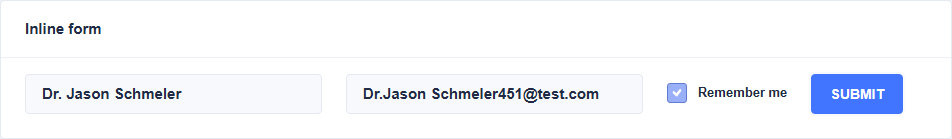
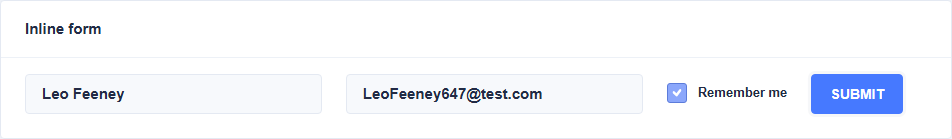
"842"

Changed region(s): [[0.3655, 0.6331, 0.6397, 0.7482], [0.0305, 0.6331, 0.2132, 0.7194]]

diff --git a/playwright.config.ts b/playwright.config.ts
@@ -1,10 +1,10 @@
 import { defineConfig, devices } from '@playwright/test';
 import type { TestOptions } from './test-options';
 
- require('dotenv').config();
+require('dotenv').config();
 
 export default defineConfig<TestOptions>({
-  timeout: 40000,
+ timeout: 40000,
   globalTimeout: 60000,
 expect:{
 timeout:2000
@@ -13,13 +13,13 @@ timeout:2000
   reporter: 'html',
   use: {
    globalsQaURL:'https://www.globalsqa.com/demo-site/draganddrop/',
-  baseURL:'http://localhost:4200/',
-  //  baseURL: process.env.DEV =='1'? 'http://localhost:4201/'
-  //   : process.env.STAGING=='1'?'http://localhost:4202/'
-  //   : 'http://localhost:4200/',
+   baseURL:'http://localhost:4200/',
+// baseURL: process.env.DEV =='1'? 'http://localhost:4201/'
+//   : process.env.STAGING=='1'?'http://localhost:4202/'
+//   : 'http://localhost:4200/',
 
     trace: 'on-first-retry',
-    actionTimeout:20000,
+   // actionTimeout:20000,
     navigationTimeout:5000,
     extraHTTPHeaders:{
        'Authorization': `Token ${process.env.ACCESS_TOKEN}`
@@ -43,31 +43,55 @@ timeout:2000
     // },
 
     { name:'setup',testMatch: 'auth.setup.ts'},
-    
+
     {
-      name: 'chromium',
-      use: { storageState: '.auth/user.json' },
+      name:'articleSetup',
+      testMatch:"newArticle.setup.ts",
+      dependencies:['setup'],
+      teardown: 'articleCleanUp'
+    },
+
+    {
+      name:'articleCleanUp',
+      testMatch:'articleCleanUp.setup.ts'
+    },
+
+      {
+      name: 'regression',
+      use: { ...devices['Desktop Chrome'],storageState: '.auth/user.json' },
       dependencies:['setup'],
     },
 
-    {
-      name: 'firefox',
-      use: { browserName:'firefox', storageState: '.auth/user.json' , 
-      video:{
-      mode:'on',
-      size: {width:1920, height:1080}
-    }},
-      dependencies:['setup']
+        {
+      name: 'likeCounter',
+      testMatch:'likesCounter.spec.ts',
+      use: { ...devices['Desktop Chrome'],storageState: '.auth/user.json' },
+      dependencies:['articleSetup'],
+    },
+      {
+      name: 'chromium',
+      use: { ...devices['Desktop Chrome'],storageState: '.auth/user.json' },
+      dependencies:['setup'],
     },
 
-    {
-      name: 'pageObjectFullScreen',
-      testMatch:'usePageObjects.spec.ts',
-      use:{
-        viewport:{width:1920, height:1080}
-      }
+    // {
+    //   name: 'firefox',
+    //   use: { browserName:'firefox', storageState: '.auth/user.json' , 
+    //   video:{
+    //   mode:'on',
+    //   size: {width:1920, height:1080}
+    // }},
+    //   dependencies:['setup']
+    // },
 
-    }
+    // {
+    //   name: 'pageObjectFullScreen',
+    //   testMatch:'usePageObjects.spec.ts',
+    //   use:{
+    //     viewport:{width:1920, height:1080}
+    //   }
+
+    // }
   ],
 
 });

diff --git a/tests/usePageObjects.spec.ts b/tests/usePageObjects.spec.ts
@@ -43,14 +43,14 @@ test('parametrized methods',async({page})=>{
 
     await pm.navigateTo().formLayoutsPage()
     await pm.onFormLayoutsPage().submitUsingTheGridFormWithCredentialsAndSelectOption(process.env.USERNAME,process.env.PASSWORD,'Option 1')
-    await page.screenshot({path: 'screenshots/formsLayoutsPage.png'})
-    const buffer=await page.screenshot()
-    console.log(buffer.toString('base64'))
+    // await page.screenshot({path: 'screenshots/formsLayoutsPage.png'})
+    // const buffer=await page.screenshot()
+    // console.log(buffer.toString('base64'))
     await pm.onFormLayoutsPage().submitInlineFormWithNameEmailAndCheckbox(randomFullName,randomEmail,true)
-    await page.locator('nb-card',{hasText:"Inline form"}).screenshot({path: 'screenshots/inlineForm.png'})
-    await pm.navigateTo().datepickerPage()
-    await pm.onDatePickerPage().selectCommonDatePickerDateFromToday(10)
-    await pm.onDatePickerPage().selectDatePickerWithRangeFromtoday(6,15)
+    // await page.locator('nb-card',{hasText:"Inline form"}).screenshot({path: 'screenshots/inlineForm.png'})
+    // await pm.navigateTo().datepickerPage()
+    // await pm.onDatePickerPage().selectCommonDatePickerDateFromToday(10)
+    // await pm.onDatePickerPage().selectDatePickerWithRangeFromtoday(6,15)
 })
 
 

diff --git a/tests/workingWithAPI.spec.ts b/tests/workingWithAPI.spec.ts
@@ -1,6 +1,5 @@
-import {test,expect} from "@playwright/test";
+import {test,expect, request} from "@playwright/test";
 import tags from '../test-data/tags.json'
-import { request } from "http";
 
 test.beforeEach(async({page})=>
 {
@@ -11,7 +10,7 @@ await route.fulfill({
 })
     })
 
-    await page.goto('https://conduit.bondaracademy.com/',{waitUntil:'networkidle'})
+    await page.goto('https://conduit.bondaracademy.com/')
 })
 
 test('has title',async({page})=>{
@@ -39,8 +38,8 @@ test('delete article',async({page, request})=>{
           "article":{"title":"Title Nate1","description":"Description Nate1","body":"Body Nate 1","tagList":[]}
         }
     })
-    await expect(articleResponse.status()).toEqual(201)
 
+    await expect(articleResponse.status()).toEqual(201)
     await page.getByText('Global Feed').click()
     await page.getByText('Title Nate1').click()
     await page.getByRole('button',{name: "Delete Article"}).first().click()

diff --git a/test-options.ts b/test-options.ts
@@ -1,9 +1,25 @@
 import {test as base} from '@playwright/test'
+import { PageManager } from "../Playwright-WebAutomation1/page-objects/pageManager";
 
 export type TestOptions={
     globalsQaURL: string 
+    formLayoutsPage: string
+    pageManager: PageManager
 }
 
 export const test=base.extend<TestOptions>({
-    globalsQaURL: ['',{option: true}] 
+    globalsQaURL: ['',{option: true}],
+    formLayoutsPage: //[
+        async({page}, use)=>{
+        await page.goto('/')
+        await page.getByText('Forms').click()
+        await page.getByText('Form Layouts').click()
+        await use('')
+        console.log('Tear down')
+    }, //{auto:true}],
+
+    pageManager: async ({page,formLayoutsPage},use)=>{
+        const pm=new PageManager(page)
+        await use(pm)
+    }
 })

diff --git a/tests/testWithFixtures.spec.ts b/tests/testWithFixtures.spec.ts
@@ -1,0 +1,19 @@
+import {test} from "../test-options";
+import {faker} from '@faker-js/faker'
+
+// test.beforeEach(async({page})=>
+// {
+//     await page.goto('/')
+// })
+
+
+test('parametrized methods',async({pageManager})=>{
+    const randomFullName=faker.person.fullName()
+    const randomEmail=`${randomFullName.replace(' ','')}${faker.number.int(1000)}@test.com`
+
+    //await pageManager.navigateTo().formLayoutsPage()
+    await pageManager.onFormLayoutsPage().submitUsingTheGridFormWithCredentialsAndSelectOption(process.env.USERNAME,process.env.PASSWORD,'Option 1')
+    await pageManager.onFormLayoutsPage().submitInlineFormWithNameEmailAndCheckbox(randomFullName,randomEmail,true)
+})
+
+

diff --git a/playwright-prod.config.ts b/playwright-prod.config.ts
@@ -1,20 +1,16 @@
 import { defineConfig, devices } from '@playwright/test';
 import type { TestOptions } from './test-options';
 
- require('dotenv').config();
+require('dotenv').config();
 
 export default defineConfig<TestOptions>({
   use: {
    globalsQaURL:'https://www.globalsqa.com/demo-site/draganddrop/',
    baseURL:'http://localhost:4200/'
   },
-  projects: [
-      { name:'setup',testMatch: 'auth.setup.ts'},
-    
-    {
-      name: 'chromium',
-      use: { storageState: '.auth/user.json' },
-      dependencies:['setup'],
+  projects: [   
+     {
+      name: 'chromium'
     },
 
   ],

diff --git a/tests/newArticle.setup.ts b/tests/newArticle.setup.ts
@@ -1,0 +1,14 @@
+import {test as setup,expect} from "@playwright/test";
+
+setup('Create new article',async({request})=>{
+      const articleResponse= await request.post('https://conduit-api.bondaracademy.com/api/articles/',{
+              data:{
+              "article":{"title":"Likes test article","description":"Description Nate1","body":"Body Nate 1","tagList":[]}
+            }
+        })
+    
+        await expect(articleResponse.status()).toEqual(201)
+        const response=await articleResponse.json()
+        const slugId=response.article.slug
+        process.env['SLUGID']=slugId
+})

diff --git a/tests/likesCounter.spec.ts b/tests/likesCounter.spec.ts
@@ -1,0 +1,11 @@
+import {test,expect, request} from "@playwright/test";
+
+test('Like counter increase',async({page})=>{
+await page.goto('https://conduit.bondaracademy.com',{waitUntil:'networkidle'})
+await page.getByText('Global Feed').click()
+const firstLikebutton= page.locator('app-article-preview').first().locator('button')
+await expect(firstLikebutton).toContainText('0')
+await firstLikebutton.click()
+await expect(firstLikebutton).toContainText('1')
+
+})

diff --git a/tests/auth.setup.ts b/tests/auth.setup.ts
@@ -4,7 +4,7 @@ import fs from 'fs'
 
 const authFile = '.auth/user.json'
 
-setup('authentication',async({page,request})=>{
+setup('authentication',async({request})=>{
     // await page.goto('https://conduit.bondaracademy.com/',{waitUntil:'networkidle'})
     // await page.getByText('Sign in').click()
     // await page.getByRole('textbox',{name:"Email"}).fill('pwtest29Nate@test.com')

diff --git a/tests/articleCleanUp.setup.ts b/tests/articleCleanUp.setup.ts
@@ -1,0 +1,6 @@
+import {test as setup,expect} from "@playwright/test";
+
+setup('Delete article',async({request})=>{
+    const deleteArticleResponse=await request.delete(`https://conduit-api.bondaracademy.com/api/articles/${process.env.SLUGID}`)
+    expect(deleteArticleResponse.status()).toEqual(204)
+})

diff --git a/tests/autoWaiting.spec.ts b/tests/autoWaiting.spec.ts
@@ -9,7 +9,7 @@ test.beforeEach(async({page},testInfo)=>
 
 test('auto waiting', async({page})=>{
     const successButton=page.locator('.bg-success')
- //   await successButton.click()
+   // await successButton.click()
 
  //   const text = await successButton.textContent()
 
